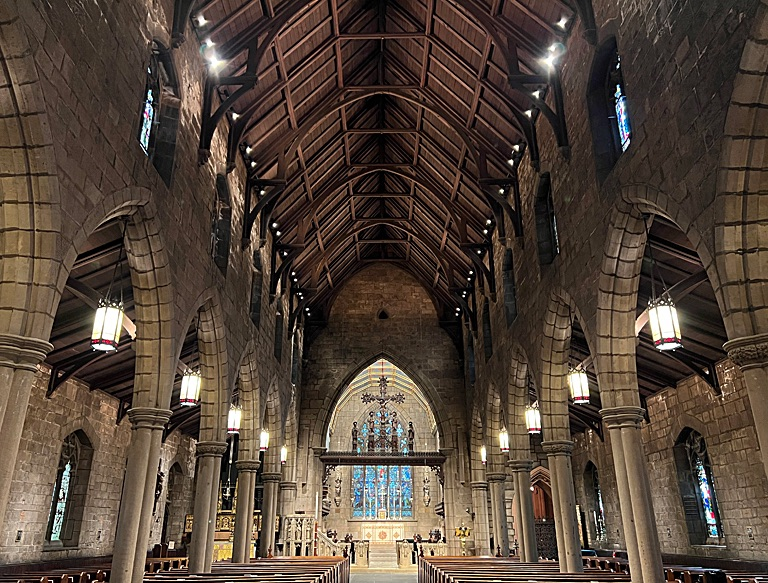
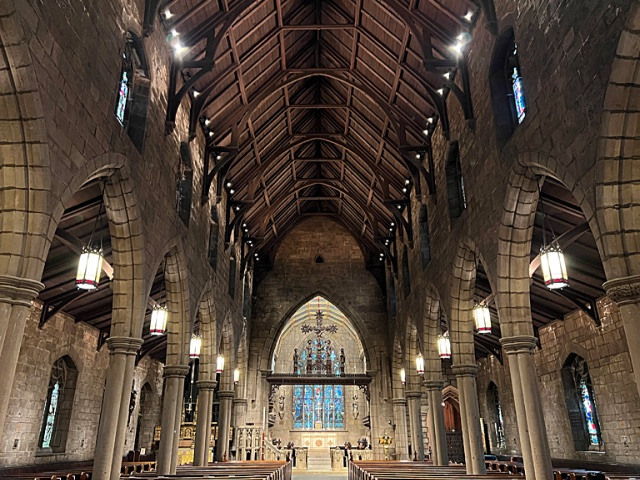
Add endless marquee to Who we are photo strip, update photos

diff --git a/src/animations/marquee.js b/src/animations/marquee.js
@@ -1,0 +1,87 @@
+// Endless right-to-left marquee for the "Who we are" photo strip.
+// The original photos are cloned (aria-hidden) until the strip always covers the viewport,
+// then the strip moves left by exactly one set of photos and loops — the copy that slides in
+// is identical, so the jump back is invisible. Starts from the static (centred) layout.
+// Paused while off screen; disabled with prefers-reduced-motion (static layout stays).
+
+import { gsap } from 'gsap'
+import { ScrollTrigger } from 'gsap/ScrollTrigger'
+import { MARQUEE, REDUCED_MOTION_QUERY } from './config.js'
+
+gsap.registerPlugin(ScrollTrigger)
+
+export function initMarquee(list) {
+  if (!list || window.matchMedia(REDUCED_MOTION_QUERY).matches) return
+
+  const originals = [...list.children]
+  let tween = null
+  let trigger = null
+
+  const build = () => {
+    const progress = tween ? tween.progress() : 0
+    tween?.kill()
+    trigger?.kill()
+    list.querySelectorAll('[data-marquee-clone]').forEach((clone) => clone.remove())
+
+    list.classList.add('is-marquee')
+    gsap.set(list, { x: 0 })
+
+    const gap = parseFloat(getComputedStyle(list).columnGap) || 0
+    // Distance between the same photo in two neighbouring sets
+    const setWidth = originals.reduce((width, item) => width + item.offsetWidth + gap, 0)
+    const listWidth = list.clientWidth
+    // Same start as the static layout: the original set centred in the list
+    const startX = (listWidth - (setWidth - gap)) / 2
+    // The strip bleeds past the list to the viewport edges
+    const bleed = list.getBoundingClientRect().left
+
+    // Enough sets that the right edge stays covered at the end of a loop (x = startX - setWidth)
+    const sets = Math.max(2, Math.ceil((listWidth + bleed - startX) / setWidth) + 1)
+    for (let i = 1; i < sets; i += 1) {
+      originals.forEach((item) => {
+        const clone = item.cloneNode(true)
+        clone.setAttribute('aria-hidden', 'true')
+        clone.dataset.marqueeClone = ''
+        list.append(clone)
+      })
+    }
+
+    tween = gsap.fromTo(
+      list,
+      { x: startX },
+      {
+        x: startX - setWidth,
+        duration: originals.length * MARQUEE.secondsPerPhoto,
+        ease: 'none',
+        repeat: -1,
+      },
+    )
+    tween.progress(progress)
+
+    // Run only while the strip is on screen
+    trigger = ScrollTrigger.create({
+      trigger: list,
+      start: 'top bottom',
+      end: 'bottom top',
+      onToggle: (self) => (self.isActive ? tween.play() : tween.pause()),
+    })
+    if (!trigger.isActive) tween.pause()
+  }
+
+  build()
+
+  let lastWidth = list.clientWidth
+  let timer = null
+  window.addEventListener(
+    'resize',
+    () => {
+      clearTimeout(timer)
+      timer = setTimeout(() => {
+        if (list.clientWidth === lastWidth) return
+        lastWidth = list.clientWidth
+        build()
+      }, MARQUEE.resizeDebounce)
+    },
+    { passive: true },
+  )
+}

diff --git a/index.html b/index.html
@@ -98,8 +98,8 @@
             <img
               class="who__photo-img"
               src="/src/assets/who/photo-1.jpg"
-              width="1000"
-              height="580"
+              width="640"
+              height="480"
               alt="Airport terminal concourse"
               loading="lazy"
             />
@@ -108,8 +108,8 @@
             <img
               class="who__photo-img"
               src="/src/assets/who/photo-2.jpg"
-              width="768"
-              height="583"
+              width="640"
+              height="480"
               alt="Cathedral nave"
               loading="lazy"
             />
@@ -118,8 +118,8 @@
             <img
               class="who__photo-img"
               src="/src/assets/who/photo-3.jpg"
-              width="1280"
-              height="925"
+              width="640"
+              height="480"
               alt="Museum hall"
               loading="lazy"
             />
@@ -128,9 +128,9 @@
             <img
               class="who__photo-img"
               src="/src/assets/who/photo-4.jpg"
-              width="1280"
-              height="853"
-              alt="Auditorium"
+              width="640"
+              height="480"
+              alt="Gothic chapel interior"
               loading="lazy"
             />
           </li>

diff --git a/src/main.js b/src/main.js
@@ -19,10 +19,12 @@ import { initHeader } from './animations/header.js'
 import { initHeroIntro } from './animations/hero.js'
 import { initTitleGrow } from './animations/title-grow.js'
 import { initTextReveal } from './animations/text-reveal.js'
+import { initMarquee } from './animations/marquee.js'
 import { initFooterAccordion } from './components/footer-accordion.js'
 
 initHeader()
 initHeroIntro()
 initTextReveal(document.querySelector('.who__content'), '.who__title, .who__text')
+initMarquee(document.querySelector('.who__gallery'))
 initTitleGrow()
 initFooterAccordion()

diff --git a/src/animations/config.js b/src/animations/config.js
@@ -58,6 +58,14 @@ export const TITLE_GROW = {
   ease: EASE_OUT,
 }
 
+// "Who we are" photo strip: endless right-to-left marquee
+export const MARQUEE = {
+  // Time for the strip to move by one photo plus its gap, on every device
+  secondsPerPhoto: 8,
+  // Rebuild delay after a resize (ms)
+  resizeDebounce: 200,
+}
+
 // Scroll-driven text fill: lines fill left to right, one after another
 export const TEXT_REVEAL = {
   // ScrollTrigger positions: "<element edge> <viewport edge>"

diff --git a/src/styles/who.css b/src/styles/who.css
@@ -43,6 +43,12 @@
   gap: var(--who-gallery-gap);
 }
 
+/* Marquee (src/animations/marquee.js): strip starts at the left, JS positions and moves it */
+.who__gallery.is-marquee {
+  justify-content: flex-start;
+  will-change: transform;
+}
+
 .who__photo {
   flex-shrink: 0;
   height: var(--who-photo-height);
